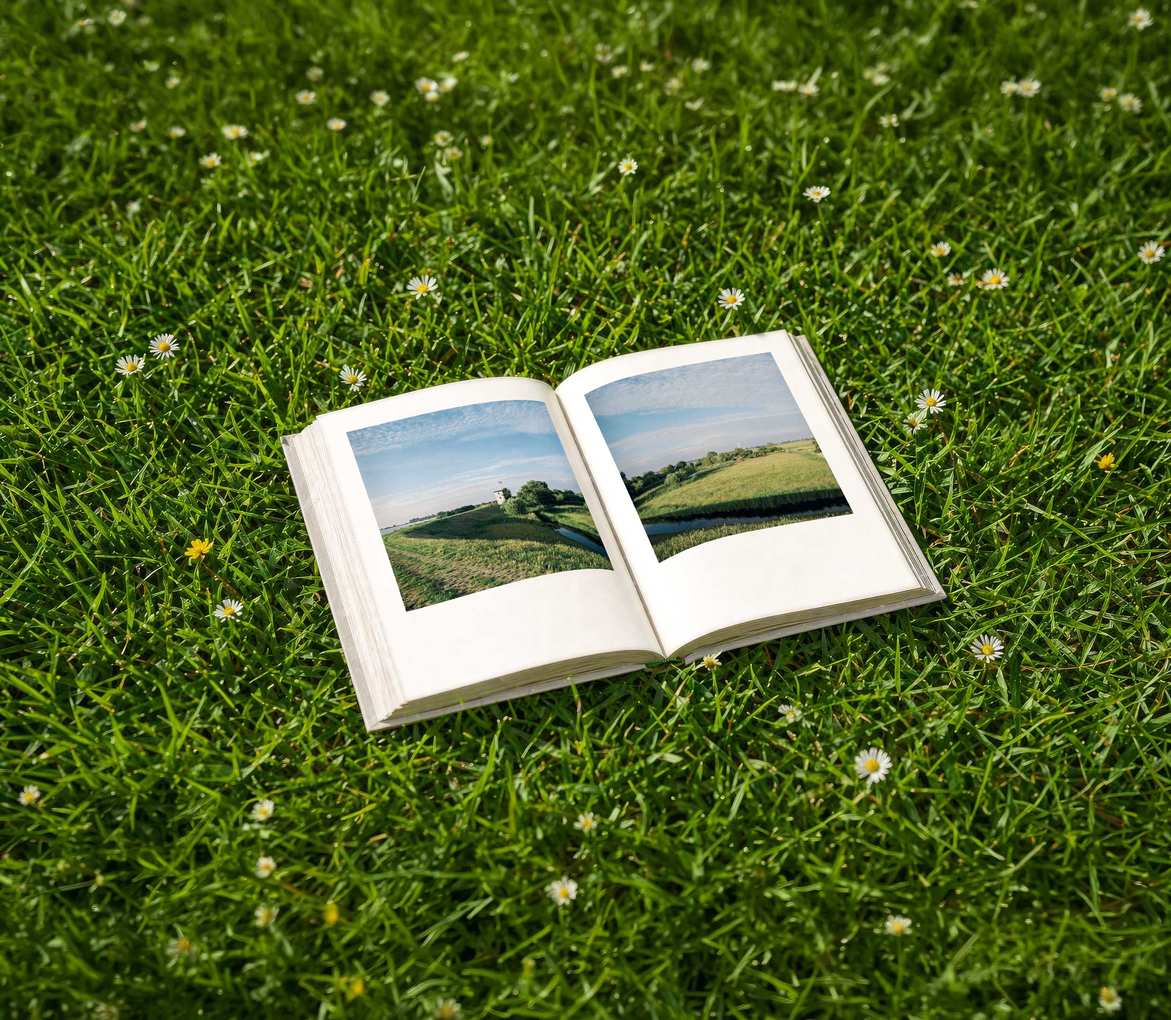
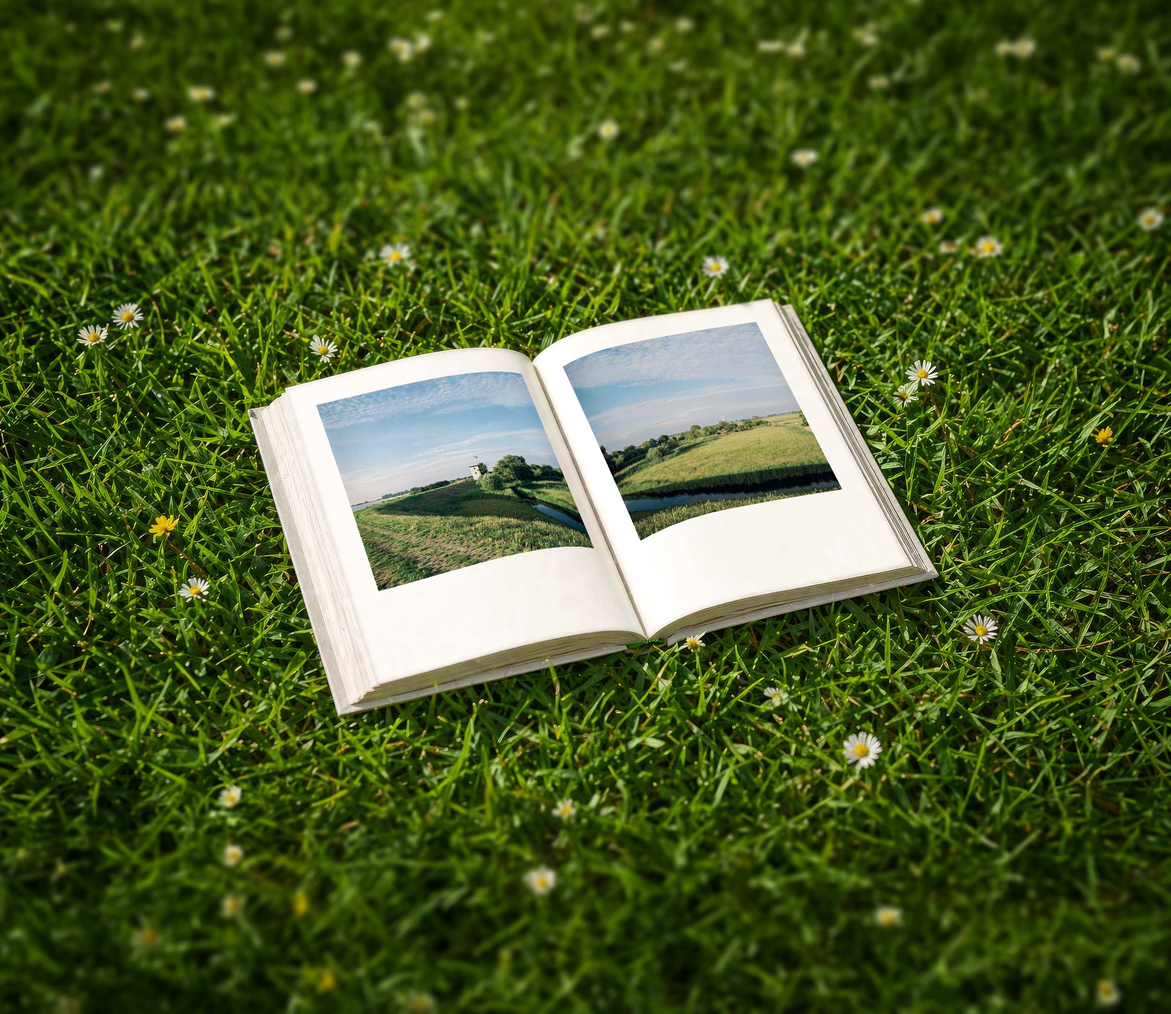
Hero voelt nu goed, koop CTA duidelijker, foto sequentie beter

diff --git a/index-boek.html b/index-boek.html
@@ -62,6 +62,13 @@
 			<source media="(max-width: 768px)" srcset="images/boek/hero-cover.jpg">
 			<img class="hero-image" src="images/boek/hero-spread.jpg" alt="De Vuurtoren Rond — spread en omslag van het fotoboek.">
 		</picture>
+		<a class="hero-gallery-link" href="#boekbeelden" aria-label="Bekijk boekbeelden">
+			<span class="hero-gallery-thumb"><img src="images/boek/01-schoot.jpg" alt="" width="104" height="104" loading="lazy"></span>
+			<span class="hero-gallery-thumb"><img src="images/boek/04-reid.jpg" alt="" width="104" height="104" loading="lazy"></span>
+			<span class="hero-gallery-thumb"><img src="images/boek/11-detail.jpg" alt="" width="104" height="104" loading="lazy"></span>
+			<span class="hero-gallery-thumb"><img src="images/boek/10-winter.jpg" alt="" width="104" height="104" loading="lazy"></span>
+			<span class="hero-gallery-more" aria-hidden="true">+5</span>
+		</a>
 	</header>
 
 	<main>
@@ -85,12 +92,12 @@
 			<p>Vier seizoenen lang keerden fotograaf <a href="https://loekbuter.com">Loek Buter</a> en <a href="https://jasperhauser.com">Jasper Hauser</a>, Reid’s kleinzoon, terug naar de vuurtoren. Loek — tweevoudig Zilveren Camera-winnaar — fotografeerde met zijn middenformaatcamera, langzaam en aandachtig. In zijn eerste fotoboek komen die beelden samen met persoonlijke teksten van Loek en Jasper, over herinnering, perspectief en de vraag wat een plek door de jaren heen in zich bewaart.</p>
 		</section>
 
-		<section class="image-pair" aria-label="Boekbeelden">
+		<section class="image-pair" id="boekbeelden" aria-label="Boekbeelden">
 			<div class="media-block has-image">
 				<img class="block-image" src="images/boek/01-schoot.jpg" alt="Open fotoboek op schoot met foto's van De Vuurtoren Rond.">
 			</div>
 			<div class="media-block has-image">
-				<img class="block-image" src="images/boek/02-gras.jpg" alt="Boekomslag van De Vuurtoren Rond liggend in het gras.">
+				<img class="block-image" src="images/boek/04-reid.jpg" alt="Open boek met een foto van Reid slapend bij het raam.">
 			</div>
 		</section>
 
@@ -137,7 +144,7 @@
 				<img class="block-image" src="images/boek/03-bloemen.jpg" alt="Open boek met de pagina Summer abundance en een foto van bloemen.">
 			</div>
 			<div class="media-block media-large has-image">
-				<img class="block-image" src="images/boek/04-reid.jpg" alt="Open boek met een foto van Reid slapend bij het raam.">
+				<img class="block-image" src="images/boek/08-bloesem.jpg" alt="Bovenaanzicht van De Vuurtoren Rond met bloesemdetails.">
 			</div>
 
 			<div class="media-block media-large has-image book-quote-tile">
@@ -163,26 +170,26 @@
 				<img class="block-image" src="images/boek/12-index.jpg" alt="Open boek met indexpagina's van De Vuurtoren Rond.">
 			</div>
 			<div class="media-block media-large has-image">
-				<img class="block-image" src="images/boek/11-detail.jpg" alt="Detailfoto van De Vuurtoren Rond.">
+				<img class="block-image" src="images/boek/07-randjes.jpg" alt="Bovenaanzicht van boekdetails en paginaranden.">
 			</div>
 			
 			<!-- last row -->
 			<div class="media-block media-large has-image book-winter-spread-tile">
-				<img class="block-image" src="images/boek/10-winter.jpg" alt="Open boek met winterse pagina's uit De Vuurtoren Rond.">
+				<img class="block-image" src="images/boek/05-krul.jpg" alt="Detail van een openvallende pagina in De Vuurtoren Rond.">
 			</div>
 			<div class="nested-grid">
 				<div class="media-block has-image">
-					<img class="block-image" src="images/boek/05-krul.jpg" alt="Detail van een openvallende pagina in De Vuurtoren Rond.">
+					<img class="block-image" src="images/boek/10-winter.jpg" alt="Open boek met winterse pagina's uit De Vuurtoren Rond.">
 				</div>
 				<div class="publication-block">
 					<p>Gepubliceerd in:</p>
 					<img src="images/boek/06-publicatie-logos.svg" alt="Logo's van publicaties waarin De Vuurtoren Rond is verschenen.">
 				</div>
 				<div class="media-block has-image">
-					<img class="block-image" src="images/boek/07-randjes.jpg" alt="Bovenaanzicht van boekdetails en paginaranden.">
+					<img class="block-image" src="images/boek/14-dijk.jpg" alt="Open boek met een foto van de dijk rond de vuurtoren.">
 				</div>
 				<div class="media-block has-image">
-					<img class="block-image" src="images/boek/08-bloesem.jpg" alt="Bovenaanzicht van De Vuurtoren Rond met bloesemdetails.">
+					<img class="block-image" src="images/boek/11-detail.jpg" alt="Detailfoto van De Vuurtoren Rond.">
 				</div>
 			</div>
 		</section>

diff --git a/styles-boek.css b/styles-boek.css
@@ -12,11 +12,14 @@
 	--max: 1100px;
 	--gap: 20px;
 	--buy-bar-height: 100px;
-	--hero-max-height: 740px;
 }
 
 * {
 	box-sizing: border-box;
+}
+
+html {
+	scroll-behavior: smooth;
 }
 
 body {
@@ -63,7 +66,7 @@ ul {
 }
 
 .button-primary {
-	background: #000;
+	background: #4086b1;
 	color: #fff;
 }
 .button-primary:hover {
@@ -88,7 +91,7 @@ ul {
 /* Hero Header */
 .hero {
 	position: relative;
-	height: min(var(--hero-max-height), calc(100svh - var(--buy-bar-height)));
+	height: calc(100svh - var(--buy-bar-height) - 120px);
 	min-height: 280px;
 	background: var(--block);
 	overflow: hidden;
@@ -109,10 +112,66 @@ ul {
 	object-position: center;
 }
 
-@media (min-width: 769px) {
-	.hero-image {
-		object-position: 56% 56%;
-	}
+/* Hero Gallery */
+.hero-gallery-link {
+	display: none;
+	position: absolute;
+	left: 50%;
+	bottom: 40px;
+	z-index: 2;
+	align-items: center;
+	gap: 6px;
+	padding: 0;
+	border: none;
+	text-decoration: none;
+	transform: translateX(-50%);
+	transition: transform 0.2s ease, opacity 0.2s ease;
+}
+
+.hero-gallery-link:hover {
+	border-bottom: none;
+}
+
+.hero-gallery-thumb {
+	display: block;
+	flex: 0 0 auto;
+	width: 48px;
+	height: 48px;
+	overflow: hidden;
+	border: 1px solid rgba(255, 255, 255, 0.4);
+	border-radius: 6px;
+	box-shadow: 0 2px 10px rgba(0, 0, 0, 0.18);
+}
+
+.hero-gallery-thumb img {
+	display: block;
+	width: 100%;
+	height: 100%;
+	object-fit: cover;
+}
+
+.hero-gallery-more {
+	display: flex;
+	flex: 0 0 auto;
+	align-items: center;
+	justify-content: center;
+	width: 48px;
+	height: 48px;
+	border: 1px solid rgba(255, 255, 255, 0.4);
+	border-radius: 6px;
+	background: rgba(0, 0, 0, 0.2);
+	backdrop-filter: blur(6px);
+	-webkit-backdrop-filter: blur(6px);
+	color: rgba(255, 255, 255, 0.4);
+	font-family: Inter, Helvetica, Arial, sans-serif;
+	font-size: 15px;
+	font-weight: 600;
+	line-height: 1;
+	box-shadow: 0 2px 10px rgba(0, 0, 0, 0.18);
+}
+
+#boekbeelden {
+	scroll-margin-top: calc(var(--buy-bar-height) + 12px);
 }
 
 /* Buy bar */
@@ -867,6 +926,10 @@ section {
 		max-width: var(--max);
 	}
 
+	.hero-gallery-link {
+		display: flex;
+	}
+
 	/* Buy bar */
 	.buy-bar {
 		gap: 0;
@@ -956,7 +1019,6 @@ section {
 @media (max-width: 480px) {
 	:root {
 		--gap: 12px;
-		--hero-max-height: 560px;
 	}
 
 	/* Buy bar */
